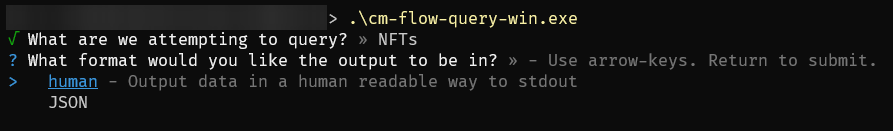
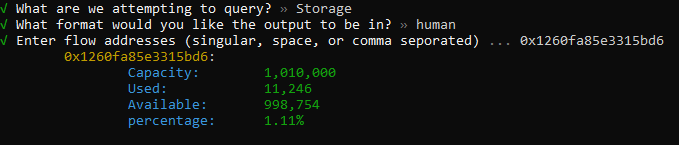
Formatting and example added

diff --git a/src/main.js b/src/main.js
@@ -15,6 +15,8 @@ const pause = () => {
   return new Promise(resolve => wait.question("", () => resolve(wait.close())));
 }
 
+const formatNumber = number => number.toString().replace(/\B(?=(\d{3})+(?!\d))/g, ",");
+
 const main = async () => {
   const response = await prompts([{
       type: 'select',
@@ -93,11 +95,11 @@ const main = async () => {
         console.log(JSON.stringify(res, null, 2));
       } else {
         console.log(res.map(account => `\t${chalk.yellow(account.address)}:
-        \t${chalk.cyan('Capacity:')} ${chalk.green(account.capacity)}
-        \t${chalk.cyan('Used:')} ${chalk.green(account.used)}
-        \t${chalk.cyan('Available:')} ${chalk.green(account.available)}
-        \t${chalk.cyan('percentage:')}` +
-        `\t${chalk.green(((account.used / account.capacity) * 100).toFixed(2) + '%')}`)
+          ${chalk.cyan('Capacity:\t')} ${chalk.green(formatNumber(account.capacity))}
+          ${chalk.cyan('Used:\t\t')} ${chalk.green(formatNumber(account.used))}
+          ${chalk.cyan('Available:\t')} ${chalk.green(formatNumber(account.available))}
+          ${chalk.cyan('percentage:\t')} ` +
+          `${chalk.green(((account.used / account.capacity) * 100).toFixed(2) + '%')}`)
         .join('\n\n'))
       }
     }

diff --git a/README.md b/README.md
@@ -6,6 +6,6 @@ ChainMonsters Flow query tool
 
 Just download the [latest release](https://github.com/bside-luke/cm-flow-query/releases/latest) for your platform and open the app in your terminal
 
-## Screenshots
+## Example
 
-![Screenshot of the app](/docs/image.png "Screenshot of the app")
+![Screenshot of the app](/docs/example.gif "Screenshot of the app")
